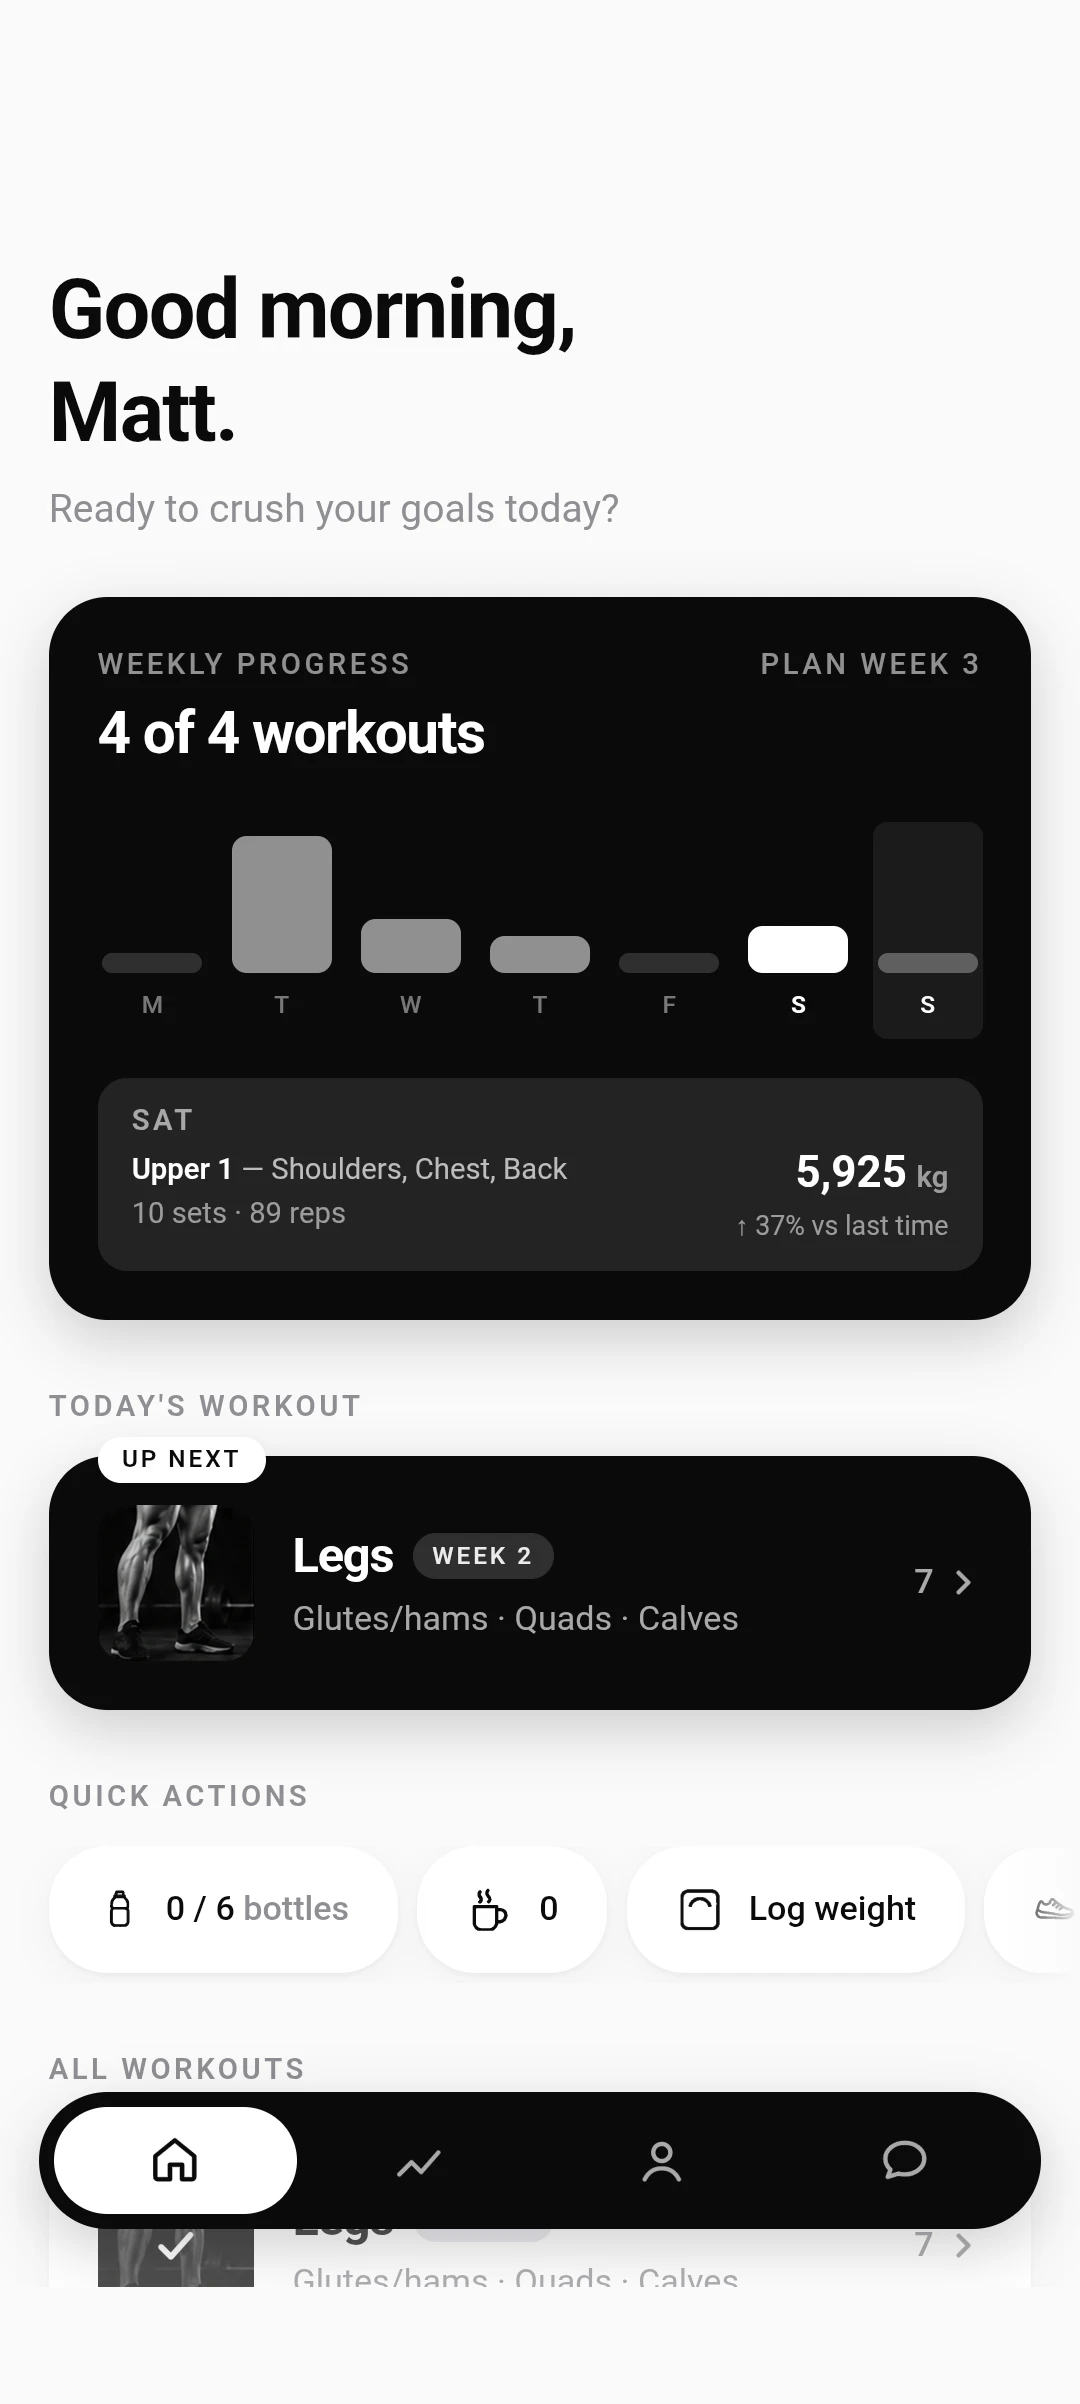
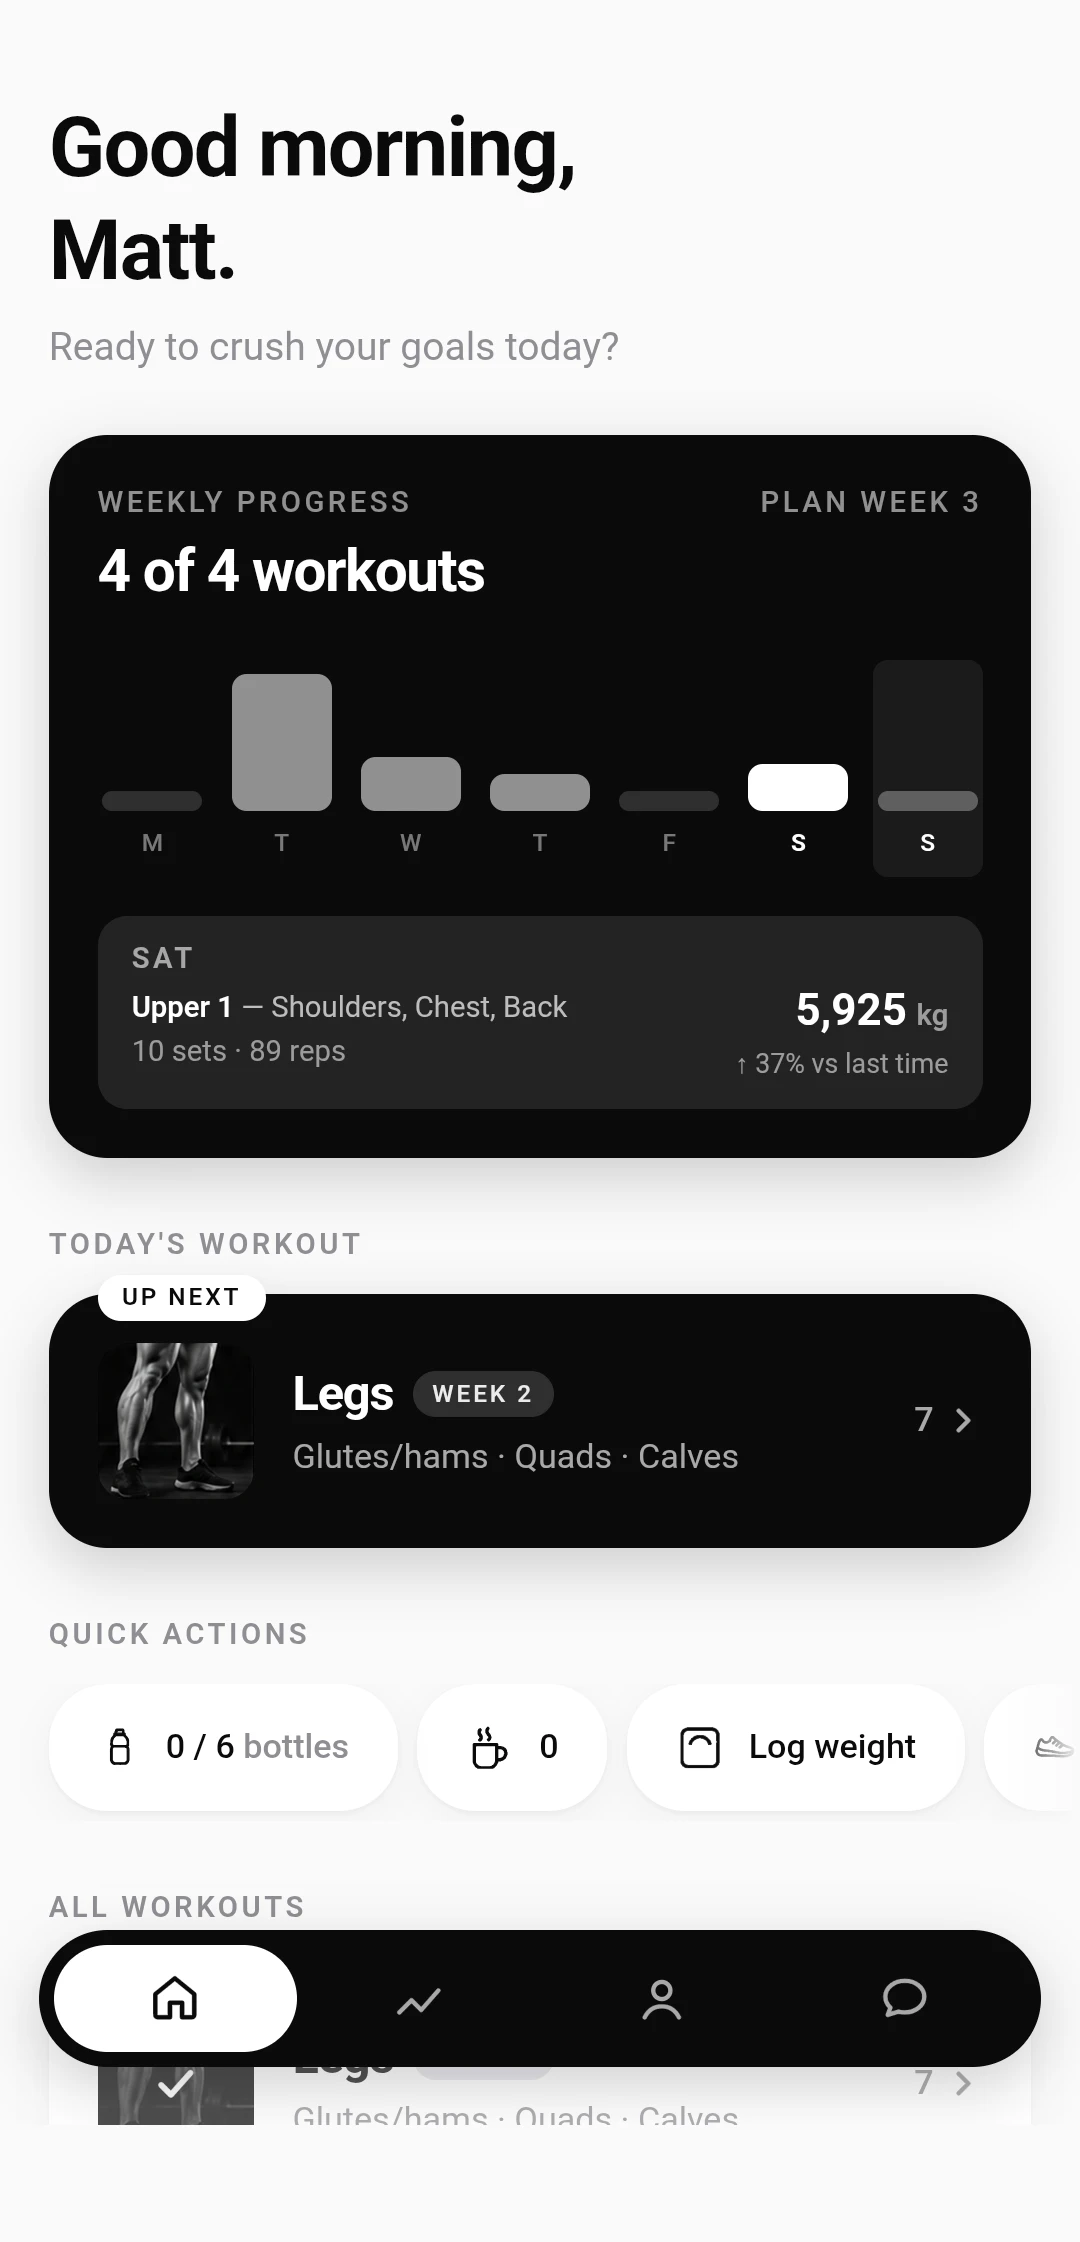
Crop the status bar off the hero screens instead of painting it
Painting the Android status strip out in the app's own background kept
the 1080x2404 frame, but it left 162px of blank above the app's own top
padding — on the rendered phone that reads as the screen starting a
third of the way down.

Cropping it makes each shot 1080x2242, slightly wider in proportion than
the frame, so object-fit: cover now trims 2% off each side instead. The
app's side margins are ~40px at this scale, so nothing lands near the
edge: the set rows, tick buttons and overflow menu all stay whole, and
the screens fill the frame top to bottom.

Claude-Session: https://claude.ai/code/session_016dQZsHJBfV1LHgyEm3bUhk

diff --git a/index.html b/index.html
@@ -93,11 +93,11 @@
              frame is fetched at priority — it is the LCP image; the rest are in
              the viewport so they still load, just behind it. -->
         <figure class="phone phone--front phone--stack">
-          <img class="is-on" src="assets/shots/reps-home.webp" alt="" width="1080" height="2404" loading="eager" decoding="async" fetchpriority="high" />
-          <img src="assets/shots/reps-workout.webp" alt="" width="1080" height="2404" loading="lazy" decoding="async" fetchpriority="low" />
-          <img src="assets/shots/reps-log.webp" alt="" width="1080" height="2404" loading="lazy" decoding="async" fetchpriority="low" />
-          <img src="assets/shots/reps-rest.webp" alt="" width="1080" height="2404" loading="lazy" decoding="async" fetchpriority="low" />
-          <img src="assets/shots/reps-progress.webp" alt="" width="1080" height="2404" loading="lazy" decoding="async" fetchpriority="low" />
+          <img class="is-on" src="assets/shots/reps-home.webp" alt="" width="1080" height="2242" loading="eager" decoding="async" fetchpriority="high" />
+          <img src="assets/shots/reps-workout.webp" alt="" width="1080" height="2242" loading="lazy" decoding="async" fetchpriority="low" />
+          <img src="assets/shots/reps-log.webp" alt="" width="1080" height="2242" loading="lazy" decoding="async" fetchpriority="low" />
+          <img src="assets/shots/reps-rest.webp" alt="" width="1080" height="2242" loading="lazy" decoding="async" fetchpriority="low" />
+          <img src="assets/shots/reps-progress.webp" alt="" width="1080" height="2242" loading="lazy" decoding="async" fetchpriority="low" />
           <span class="phone__sweep" aria-hidden="true"></span>
         </figure>
       </div>
